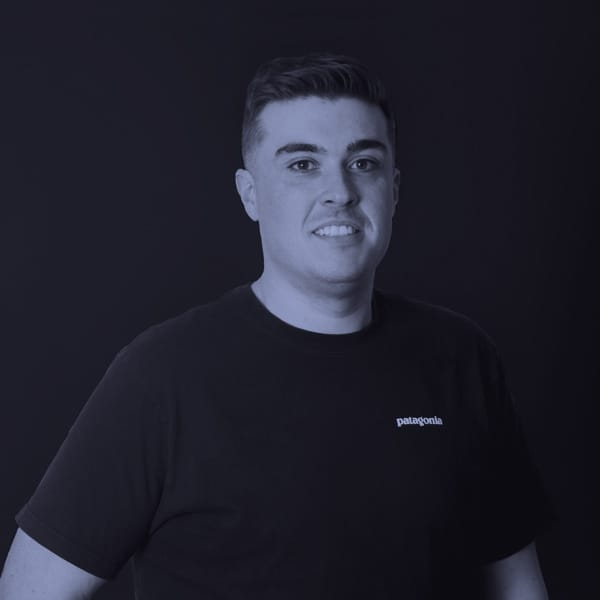
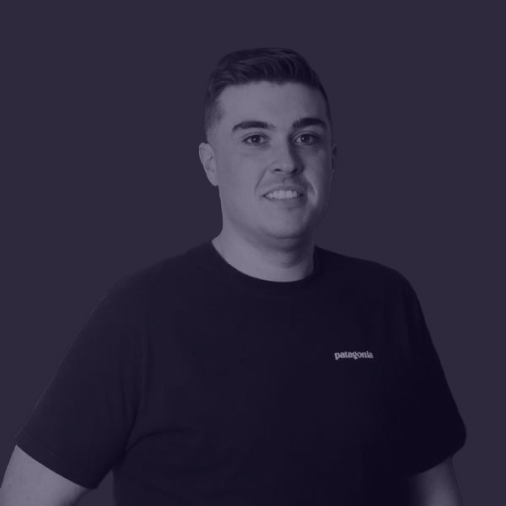
fix: remove mangled merge content from StaffGrid
The GitHub web merge introduced master's old Box/Image markup nested
inside our JSX, breaking the build. Removes the garbage content.

diff --git a/components/StaffGrid.tsx b/components/StaffGrid.tsx
@@ -105,43 +105,6 @@ const StaffGrid: React.FC = () => (
             <br />
             <Text as="span" fontSize={3}>
               &#129309;
-      <Box>
-        <Image mb={1} src="/img/jpg/rossi.jpg" />
-        <Text>Matt Rossi</Text>
-      </Box>
-      <Box>
-        <Image mb={1} src="/img/jpg/bettis.jpg" />
-        <Text>Chapman Bettis</Text>
-      </Box>
-      <Box>
-        <Image mb={1} src="/img/jpg/wynn.jpg" />
-        <Text>Chris Wynn</Text>
-      </Box>
-      <Box>
-        <Image mb={1} src="/img/jpg/clary.jpg" />
-        <Text>Linzi Clary</Text>
-      </Box>
-      <Box>
-        <Image mb={1} src="/img/jpg/matuscak.jpg" />
-        <Text>Olesya Matuscak</Text>
-      </Box>
-      <Link scroll={false} href="/hiring/" legacyBehavior>
-        <a style={{ textDecoration: "none", color: "inherit" }}>
-          <RatioBox
-            aspectRatio={[400, 400]}
-            css={{
-              alignItems: "center",
-              backgroundColor: "#2b2836",
-              display: "flex",
-              justifyContent: "center",
-            }}
-          >
-            <Text paddingX={3} textAlign="center" color="mediumGray">
-              If this bothers you, fix it by joining the team.
-              <br />
-              <Text as="span" fontSize={3}>
-                &#129309;
-              </Text>
             </Text>
           </Text>
         </RatioBox>